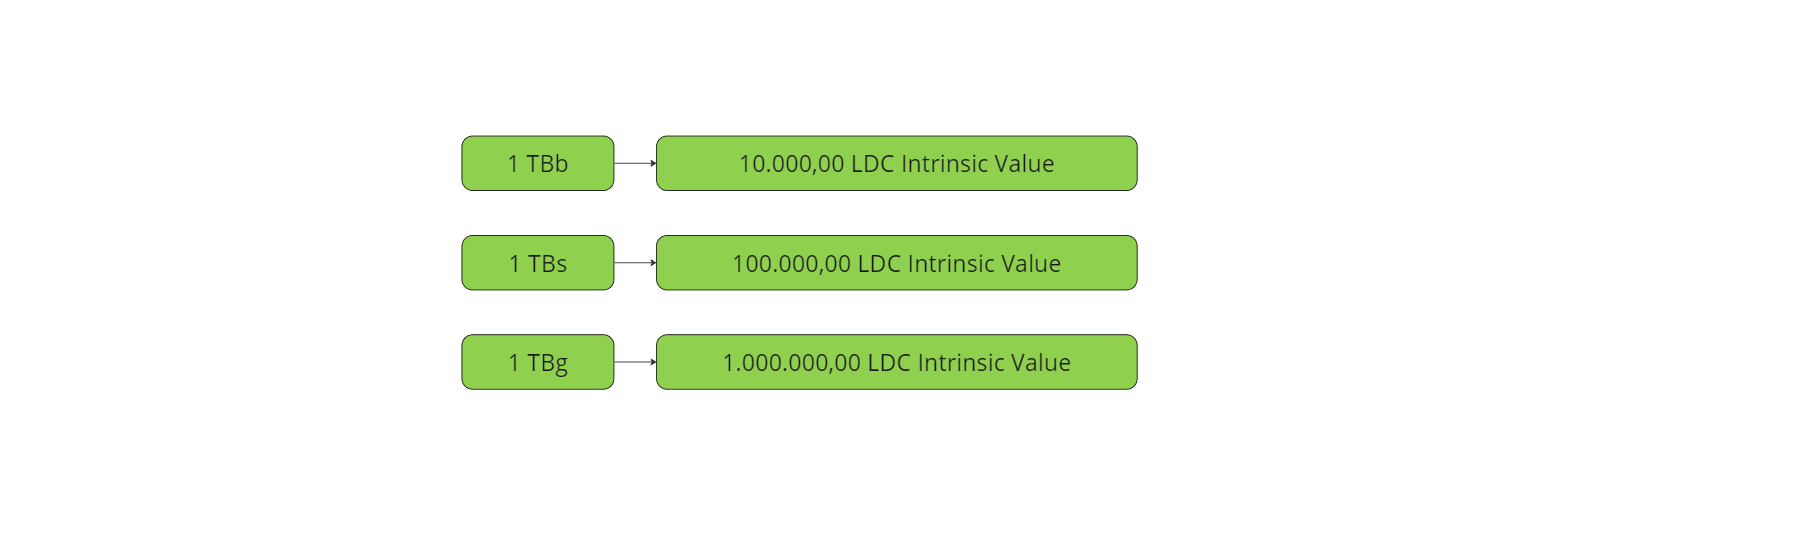
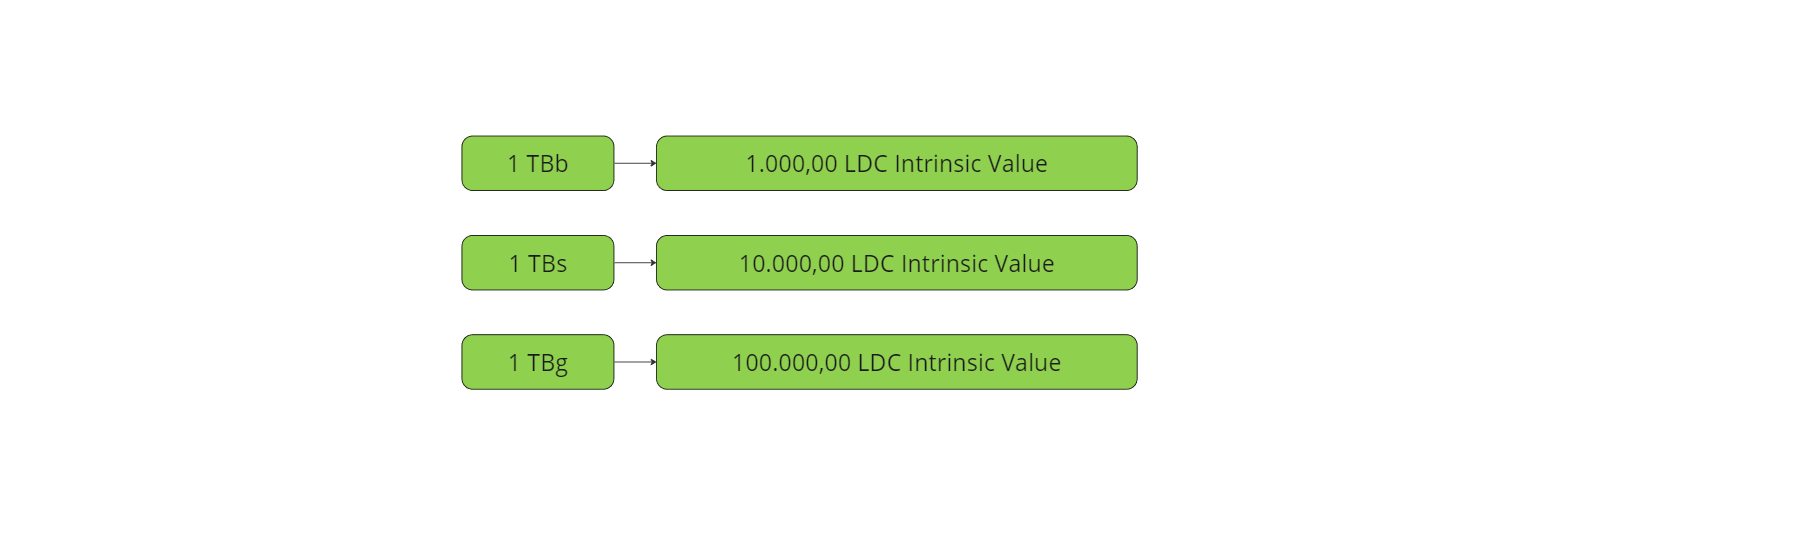
Images Update

Changed region(s): [[0.406, 0.6104, 0.5934, 0.6715], [0.406, 0.2747, 0.5934, 0.3357], [0.406, 0.4578, 0.5934, 0.4883]]

diff --git a/docs/Tokens/008-TB-token.md b/docs/Tokens/008-TB-token.md
@@ -17,7 +17,7 @@ TB tokens categories:
 - **TBs** (*Silver*): Offering a mid-tier option, each TBs token holds a value of **10,000.00 LDC**.
 - **TBb** (*Bronze*): Providing an accessible entry point, each TBb token is valued at **1,000.00 LDC**.
 
-![TB Value](/img/tbvalue.png)
+![TB Value](/img/TBVALUE.png)
 
 ### Inflation and Deflation: A Community-Driven Approach
 TB tokens empower the community to influence the overall supply of LDC in circulation. Through a well-defined governance process within the Decentralized Autonomous Organization (DAO), participants can vote on the allocation of LDC for TB token creation. This empowers the community to strategically adjust the LDC supply based on the ecosystem's needs, fostering adaptability and long-term sustainability.
@@ -36,13 +36,13 @@ These newly minted TB tokens are then securely stored within a designated vault 
 The distribution of TB tokens and their associated benefits are carefully structured to incentivize participation and fuel ecosystem growth:
 
 - **40%**: Dedicated to TB LP Farming, rewarding users who contribute to liquidity within the ecosystem.
-- **25%**: Allocated to the LIRA Ecosystem Reward Division, incentivizing active participation and fostering overall growth.
+- **25%**: Allocated to the TB Staking Reward Division, incentivizing active participation and contributing to the ecosystem stability.
 - **10%**: Directed towards the LIRA DAO Fund, supporting essential services and ongoing DAO operations.
 - **10%**: Allocated to the LIRA Team, ensuring continued development and maintenance of the ecosystem.
 - **10%**: Offered as additional incentives to attract and reward ecosystem participants.
 -  **5%**: Awarded to green energy social mining producers, reinforcing the LIRA ecosystem's commitment to sustainability.
 
-![TB Distr](/img/tbminting.png)
+![TB Distr](/img/NEWLDCBLOCKTB.png)
 
 ### A Dynamic Ecosystem
 The implementation of Treasury Bond (TB) tokens introduces a powerful mechanism for fostering stability and growth within the LIRA DAO Ecosystem. By enabling strategic inflation or deflation of the LDC supply, promoting liquidity, and incentivizing participation, TB tokens lay the foundation for a thriving and sustainable community-driven ecosystem.

diff --git a/docs/Tokens/009-Satoshi-LIRA-token.md b/docs/Tokens/009-Satoshi-LIRA-token.md
@@ -54,6 +54,8 @@ Following the aforementioned burning process, the remaining minted SatoshiLIRA t
 
 - **Marketing Allocation (1%)**: To raise awareness and attract new users, a small allocation (1%) of the remaining tokens is reserved for strategic marketing campaigns. These resources will be used to effectively promote the LIRA project and its innovative offerings to a wider audience, fostering widespread adoption and propelling the LIRA ecosystem towards continued growth.
 
+![Satoshi LIRA distribution](/img/NEWLIRABLOCK.png)
+
 ---
 
 *The strategic distribution of minted SatoshiLIRA tokens serves a multifaceted purpose. It fosters long-term value creation by implementing a burn mechanism, incentivizes essential ecosystem functions through targeted allocations, and empowers the community through the DAO Fund. This well-defined distribution strategy lays the foundation for the sustainable growth and long-term success of the LIRA project.*

diff --git a/docs/Tokens/011-LTB-token.md b/docs/Tokens/011-LTB-token.md
@@ -38,7 +38,7 @@ LTB token distribution is meticulously designed to incentivize participation and
 - **10%**: LIRA DAO Fund: This allocation empowers the DAO for operational expenses and community-driven initiatives.
 - **10%**: LIRA Team Allocation: This ensures the LIRA development team has the resources to continuously support and maintain the ecosystem.
 
-![LTB Minting](/img/ltbminting.png)
+![LTB Minting](/img/NEWLIRABLOCKLTB.png)
 
 
 ### A Symbiotic Relationship

diff --git a/docs/Tokens/006-LDC.md b/docs/Tokens/006-LDC.md
@@ -42,7 +42,7 @@ Following the initial burning of a predetermined portion of minted LDC tokens, t
 
 The remaining **20%** of LDC is distributed strategically within the LIRA ecosystem to support various initiatives.
 
-![LDC Token distribution](/img/ldcdistribution.png)
+![LDC Token distribution](/img/NEWLDCBLOCK.png)
 
 ## A Breakdown of LDC Distribution
 Let's delve deeper into the specific breakdown of the remaining 20% of LDC:
